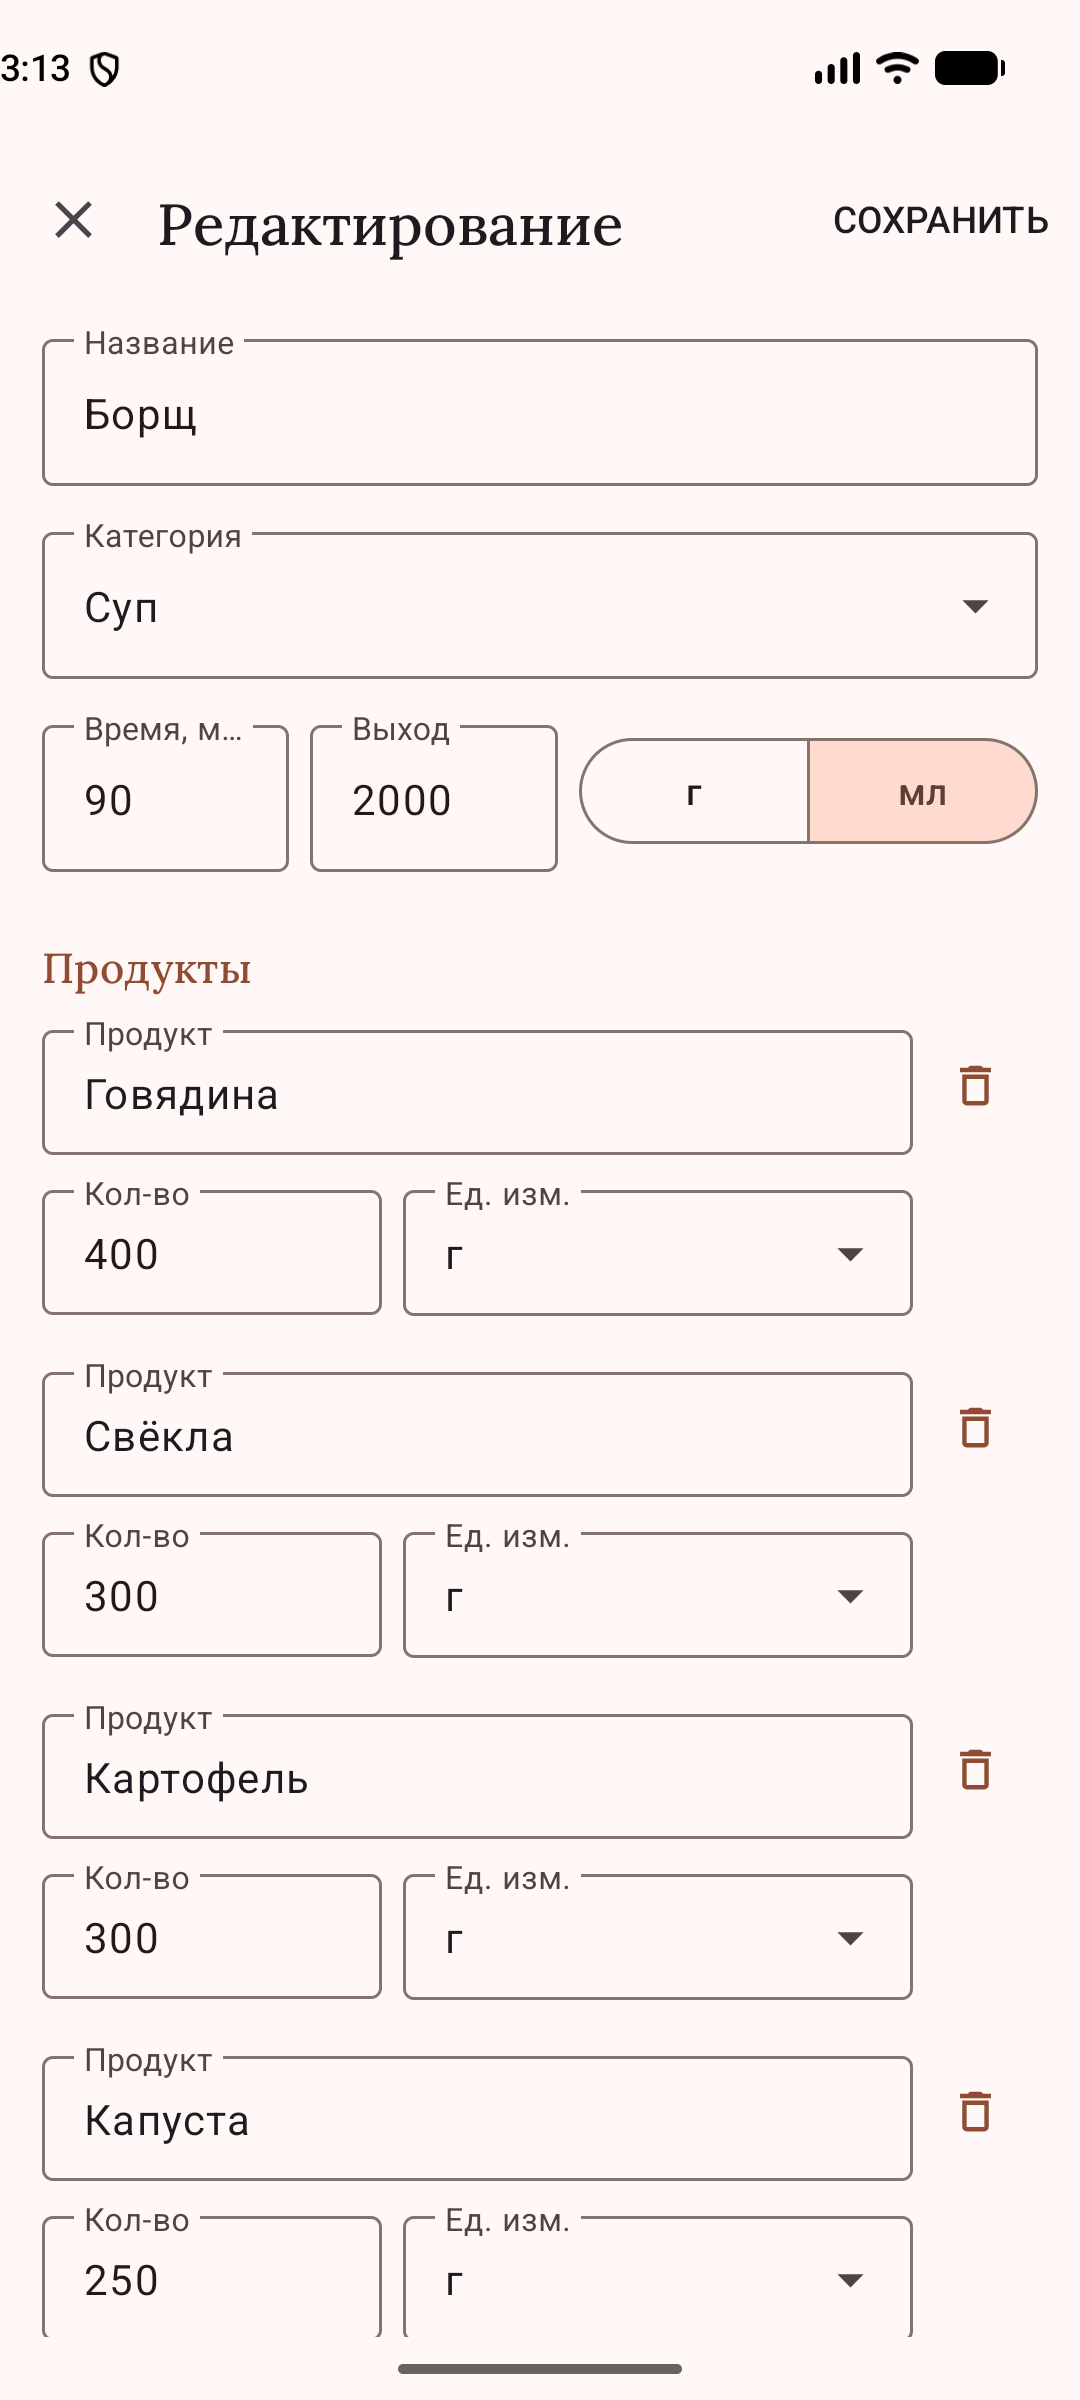
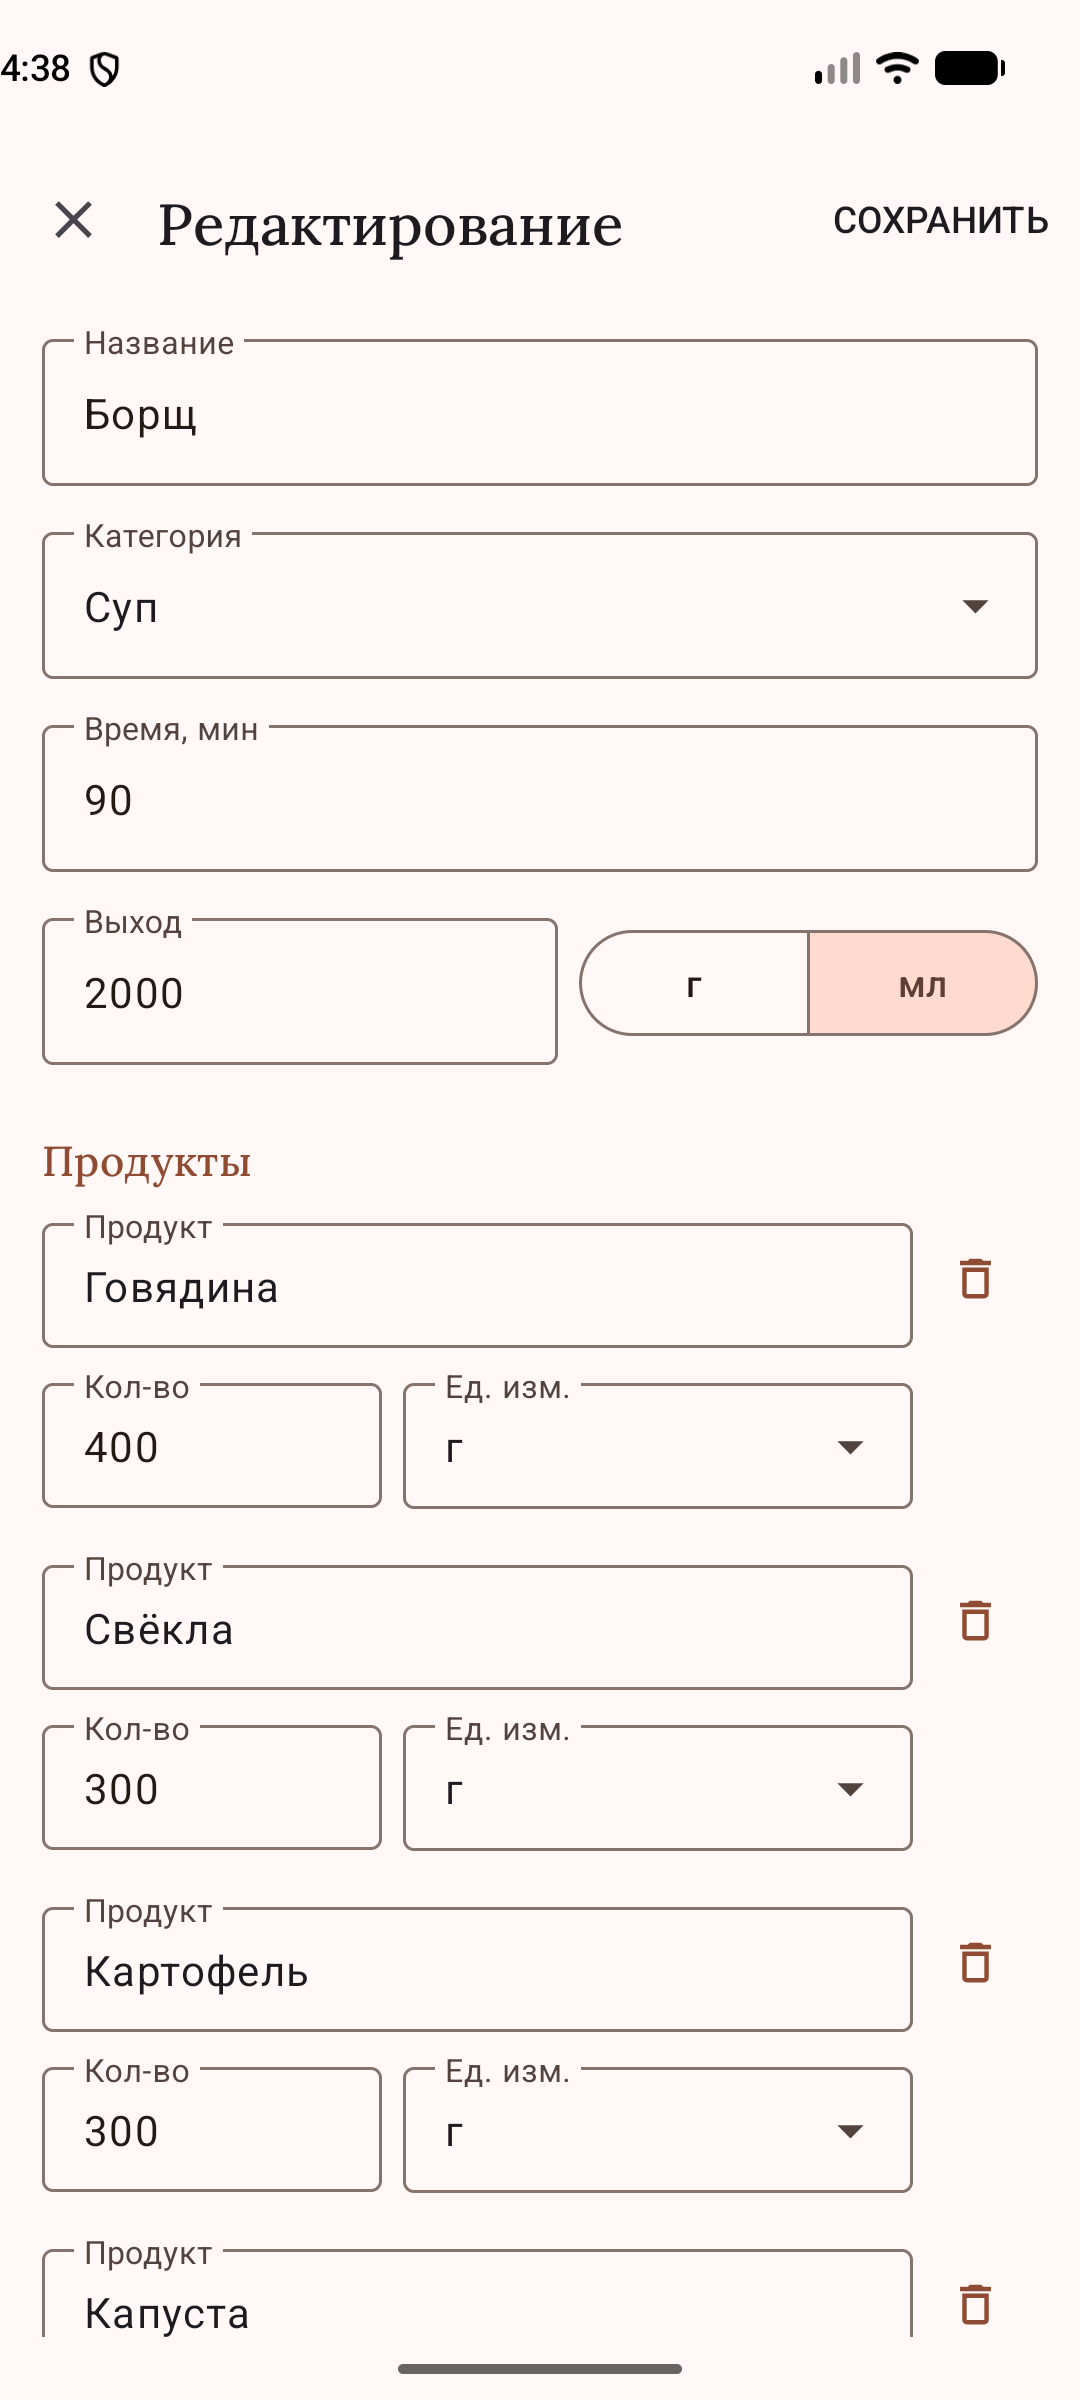
docs(lab4): add readme section with screenshots and demo

diff --git a/lab2-recipe-book/README.md b/lab2-recipe-book/README.md
@@ -1,4 +1,4 @@
-# Лабораторные работы №2–3 — «Книга рецептов»
+# Лабораторные работы №2–4 — «Книга рецептов»
 
 Android-приложение на Kotlin: личная книга рецептов с пересчётом продуктов под нужный выход блюда.
 
@@ -6,6 +6,7 @@ Android-приложение на Kotlin: личная книга рецепто
 
 - **ЛР 2** — спроектировать приложение (идея, данные, экраны, дизайн) и сверстать экраны.
 - **ЛР 3** — реализовать приложение по плану ЛР 2: все функции плана должны работать.
+- **ЛР 4** — доработать интерфейс: цвета, темы и стили по плану ЛР 2.
 
 ## Возможности
 
@@ -19,6 +20,23 @@ Android-приложение на Kotlin: личная книга рецепто
 - **Настройки:** язык интерфейса — как в системе, русский или английский.
 - Светлая и тёмная тема по настройке системы. Данные хранятся на устройстве, интернет не нужен.
   При первом запуске — три стартовых рецепта.
+
+## Доработки интерфейса (ЛР 4)
+
+- **Значок приложения:** своя адаптивная иконка — белая книга на основном цвете палитры `#8F4C33`
+  вместо робота из шаблона, с монохромным слоем для тематических значков Android 13+.
+- **Редактор:** «Время, мин» — отдельное поле на всю ширину, «Выход» и переключатель «г / мл» —
+  в одной строке, переключатель стоит на уровне поля. Подписи и сообщения об ошибках не обрезаются.
+- **Диалог удаления:** кнопка «Удалить» залита цветом ошибки (`colorError` / `colorOnError`) через
+  наложение темы `ThemeOverlay.RecipeBook.DeleteDialog` — её не спутать с «Отменой» ни в светлой,
+  ни в тёмной теме.
+- **Тёмная тема:** проверены все экраны, удалён неиспользуемый цвет `md_theme_scrim`.
+
+| | Было | Стало |
+|---|---|---|
+| Значок | <img src="screenshots/icon-before.png" alt="Значок до" width="300"> | <img src="screenshots/icon-after.png" alt="Значок после" width="300"> |
+| Ошибки в редакторе | <img src="screenshots/editor-errors-before.png" alt="Редактор до" width="200"> | <img src="screenshots/editor-errors-after.png" alt="Редактор после" width="200"> |
+| Диалог в тёмной теме | <img src="screenshots/dialog-dark-before.png" alt="Диалог до" width="200"> | <img src="screenshots/dialog-dark-after.png" alt="Диалог после" width="200"> |
 
 ## Структура
 
@@ -45,7 +63,13 @@ ViewModel, корутины и Flow, RecyclerView; minSdk 24.
 
 ## Демонстрация
 
+ЛР 3 — все функции приложения:
+
 <video src="https://github.com/user-attachments/assets/cc43815c-4b4a-42be-99c8-8181e653465f" controls width="300"></video>
+
+ЛР 4 — доработки интерфейса:
+
+<video src="https://github.com/user-attachments/assets/52b4d954-3f5b-49e0-a197-7b31a4f51b24" controls width="300"></video>
 
 ## Запуск
 

diff --git a/README.md b/README.md
@@ -12,9 +12,10 @@
 
 Код и описание: [lab1-variant24](lab1-variant24/)
 
-## Лабораторные работы №2–3 «Книга рецептов»
+## Лабораторные работы №2–4 «Книга рецептов»
 
 **ЛР 2:** проектирование приложения и вёрстка экранов. **ЛР 3:** приложение по плану ЛР 2 —
-хранение данных, логика всех экранов, переходы между ними.
+хранение данных, логика всех экранов, переходы между ними. **ЛР 4:** доработка интерфейса —
+значок, редактор, диалог удаления, проверка тёмной темы.
 
 Код и описание: [lab2-recipe-book](lab2-recipe-book/)
